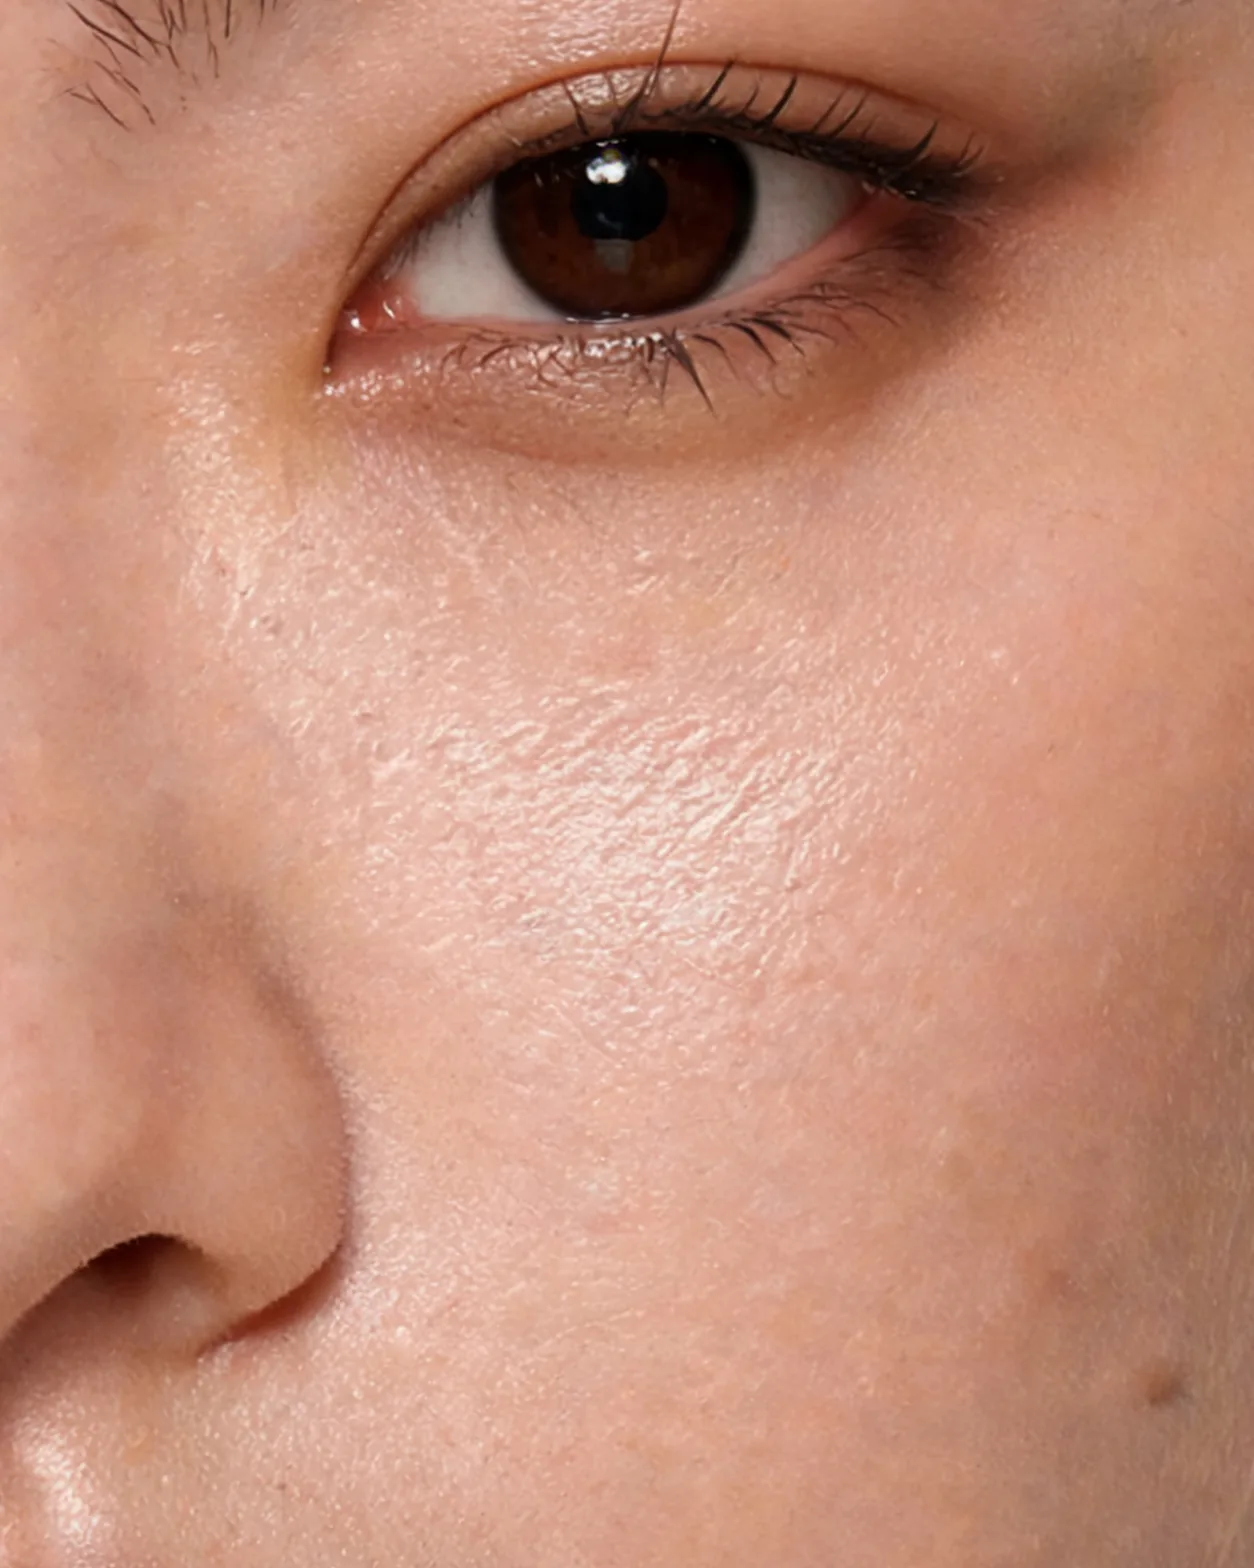
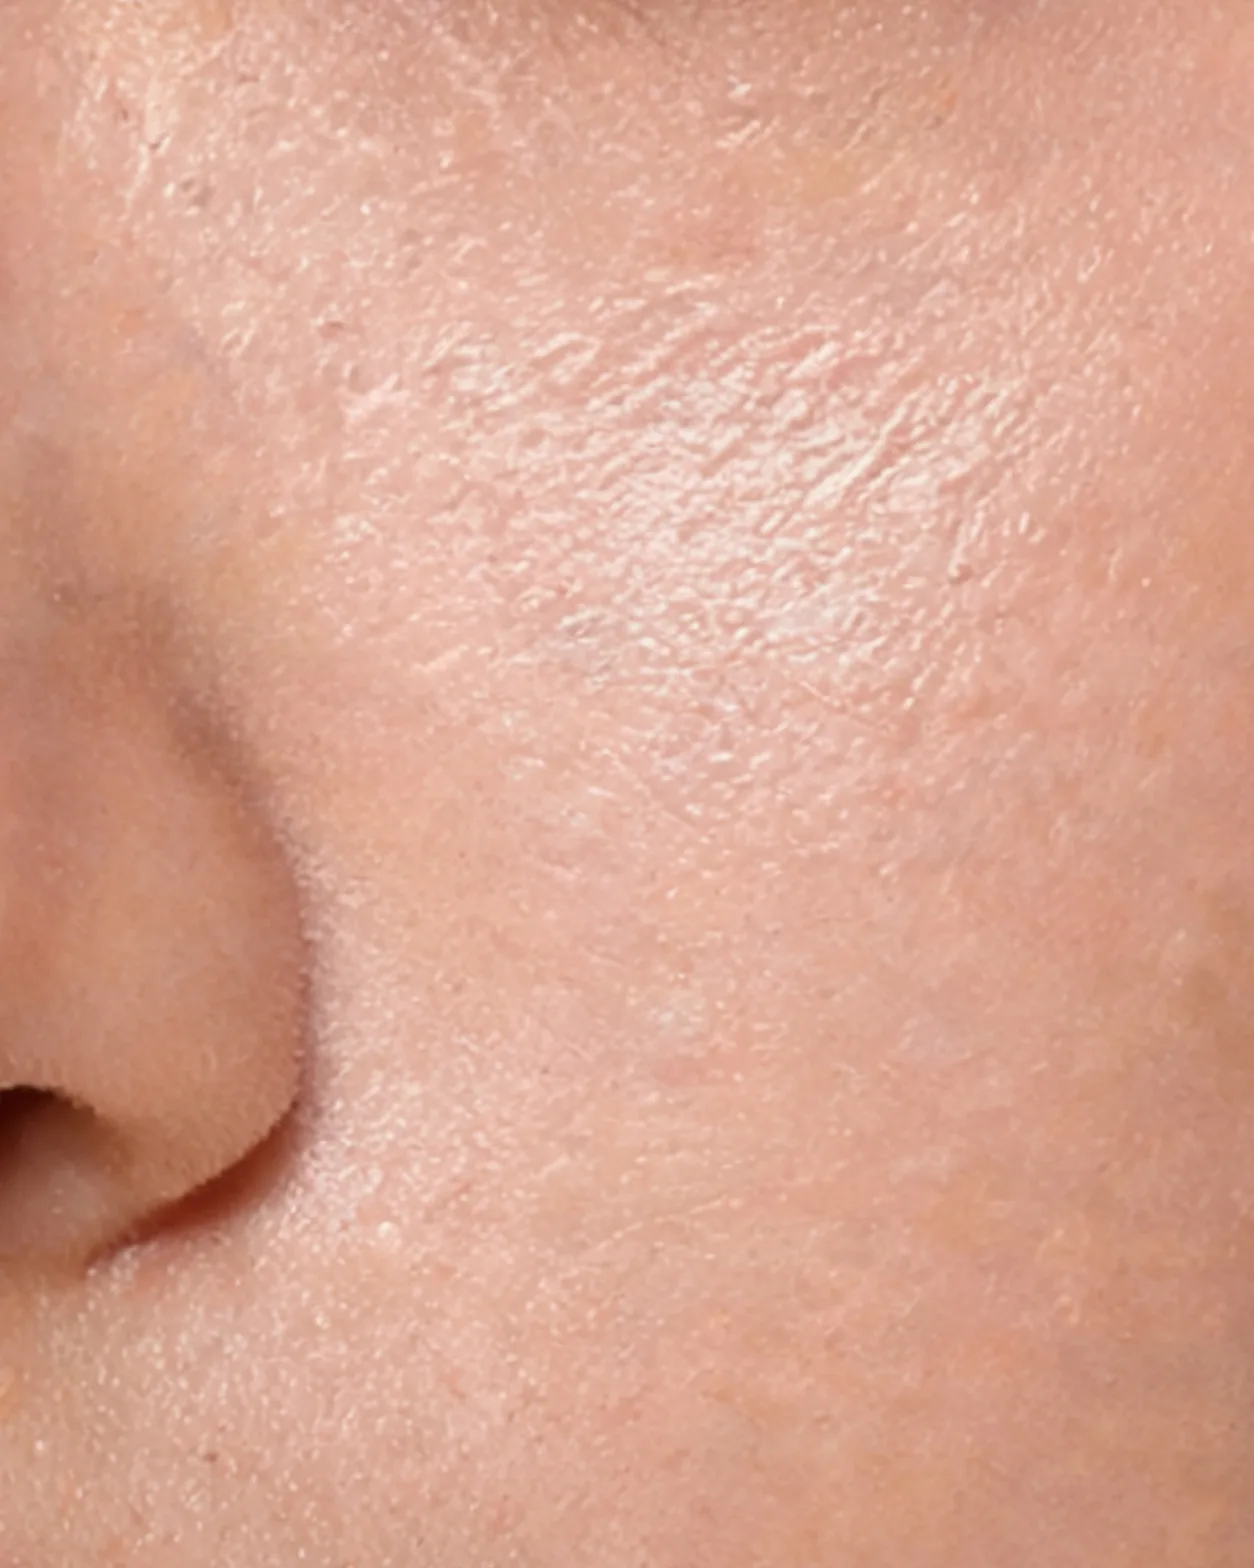
✨ feat: 홈 마무리·밝기 자막 문구와 POINT 02·04 사진 갱신
- 홈 자막: 피부 밝기가 0.0→10.0% 개선됐어요(숫자 상승 유지)
- 홈 마무리 문구·작은 문구 교체, 제품 버튼 'MORH 미백크림 자세히 보기'
- 광고 첫 화면 배지가 사진에 절반만 걸치도록 이동(680px 이하는 사진 아래 한 줄)
- POINT 02 전후 사진을 눈 아래 볼 부분으로 다시 자름, POINT 04 새 texture.png 반영
- 사용법 제목 '하루 두 번, 아침・저녁으로'

diff --git a/src/i18n/ko-story.ts b/src/i18n/ko-story.ts
@@ -98,8 +98,8 @@ export const koStory = {
         { label: '멜라닌 지수', fn: '2)', value: 7.4, text: '−7.4%' },
         { label: '경피수분손실량', fn: '2)', value: 19.2, text: '−19.2%' },
       ],
-      before: { name: 'skin-before', alt: '사용 전, 광이 없는 볼 피부 클로즈업', label: '사용 전', hint: 'bright_before.jpg 볼 부분 (임시 — skinglow_before 가 after 와 같은 파일이라)' },
-      after: { name: 'skin-after', alt: '사용 후, 윤기가 도는 볼 피부 클로즈업', label: '사용 후', hint: 'skinglow_after.png 볼 부분' },
+      before: { name: 'skin-before', alt: '사용 전, 광이 없는 볼 피부 클로즈업', label: '사용 전', hint: 'bright_before.jpg 눈 아래 볼 부분 (임시 — skinglow_before 가 after 와 같은 파일이라)' },
+      after: { name: 'skin-after', alt: '사용 후, 윤기가 도는 볼 피부 클로즈업', label: '사용 후', hint: 'skinglow_after.png 눈 아래 볼 부분' },
       footnote: '20–45세 여성 32명, 1일 2회 14일 1) · 4주 2) 사용 후 기기 측정 결과. 개인차가 있을 수 있습니다.',
     },
     record: {
@@ -136,7 +136,7 @@ export const koStory = {
       footnote: FN_DEVICE_4W,
     },
     use: {
-      title: ['하루 두 번, 아침, 저녁으로', '4주째 아침, 가리지 않아도 마음에 드는 피부를 확인하세요.'],
+      title: ['하루 두 번, 아침・저녁으로', '4주째 아침, 가리지 않아도 마음에 드는 피부를 확인하세요.'],
       morningLabel: '아침 순서',
       morning: ['토너', 'MORH', '선크림', '(필요하면) 쿠션'],
       timeline: ['DAY 1 저녁부터', '매일 아침·저녁', 'DAY 14 피부 측정', '4주, 화장대 다시 보기'],
@@ -155,12 +155,12 @@ export const koStory = {
     // count: DAY fromDay → to 동안 숫자가 from → value 로 올라감(정적 화면·JS 없음에서는 최종값). small: DAY 14 에 나타남
     captions: [
       { to: 7, big: 'MORH로 매일 관리하고 있어요' },
-      { to: 14, big: '피부 밝기', count: { fromDay: 7, from: 0, value: 10, decimals: 1, prefix: '+', suffix: '%' }, small: '멜라닌 지수 −7.4% · 피부 광택도 +21.5%' },
-    ] as { to: number; big: string; count?: { fromDay: number; from: number; value: number; decimals: number; prefix: string; suffix: string }; small?: string }[],
+      { to: 14, big: '피부 밝기가', count: { fromDay: 7, from: 0, value: 10, decimals: 1, prefix: '', suffix: '%' }, after: '개선됐어요', small: '멜라닌 지수 −7.4% · 피부 광택도 +21.5%' },
+    ] as { to: number; big: string; after?: string; count?: { fromDay: number; from: number; value: number; decimals: number; prefix: string; suffix: string }; small?: string }[],
     finalEn: 'care, not cover',
     // finalBig: \n 위치에서 줄바꿈
-    finalBig: '더 이상 가리지 않아도\n마음에 드는 피부',
-    finalSmall: '14일간의 피부 변화에서 시작해요.',
+    finalBig: '칙칙함부터 가리던 아침에서,\n가리지 않아도 마음에 드는 아침으로.',
+    finalSmall: 'MORH, 피부 변화의 시작',
     cta: '14일간의 피부 변화 보기',
     week4: {
       lead: '피부 말고도, 화장대도 기록했어요',

diff --git a/src/i18n/dict/ko.ts b/src/i18n/dict/ko.ts
@@ -35,7 +35,7 @@ export const ko = {
     productShort: '브라이트닝 크림',
     category: '브라이트닝 크림',
     volume: '50 mL',
-    toProduct: '제품 자세히 보기',
+    toProduct: 'MORH 미백크림 자세히 보기',
     buy: '구매하기',
     buyNow: '바로 구매하기',
     toHome: '처음 화면으로',
